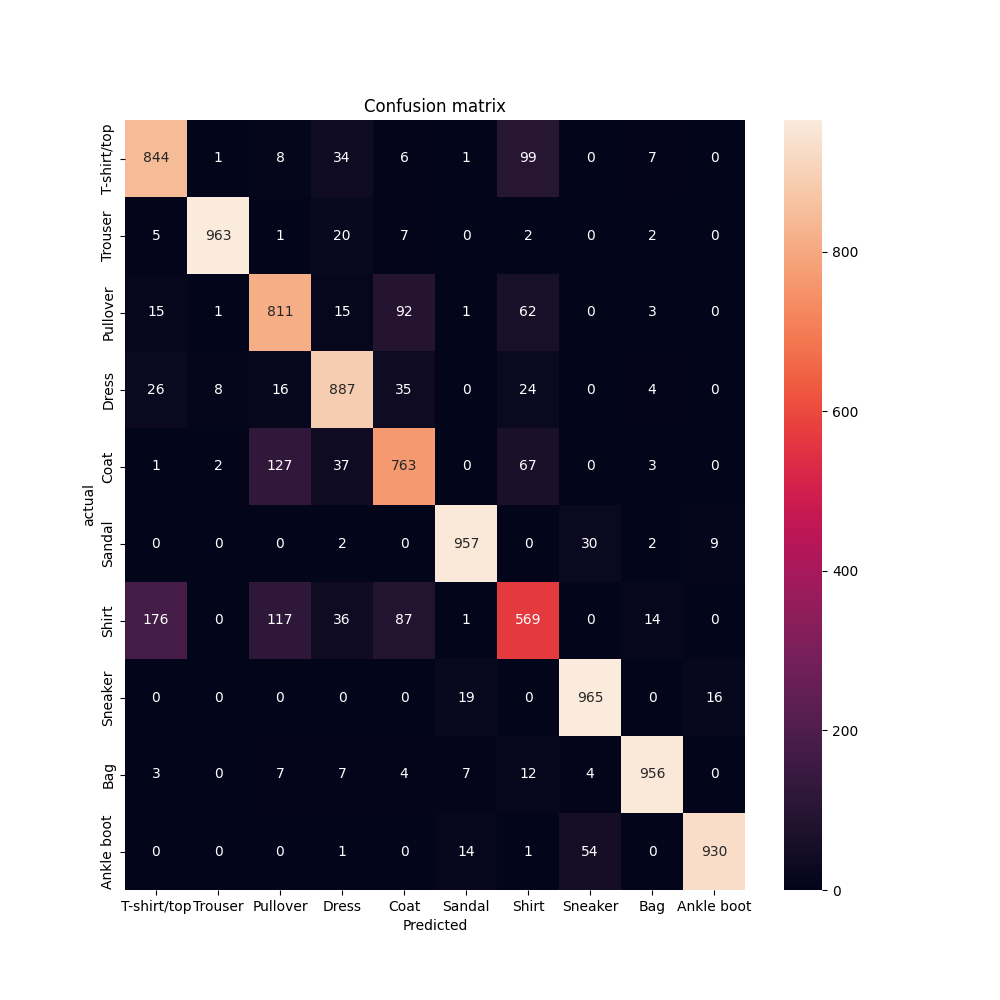
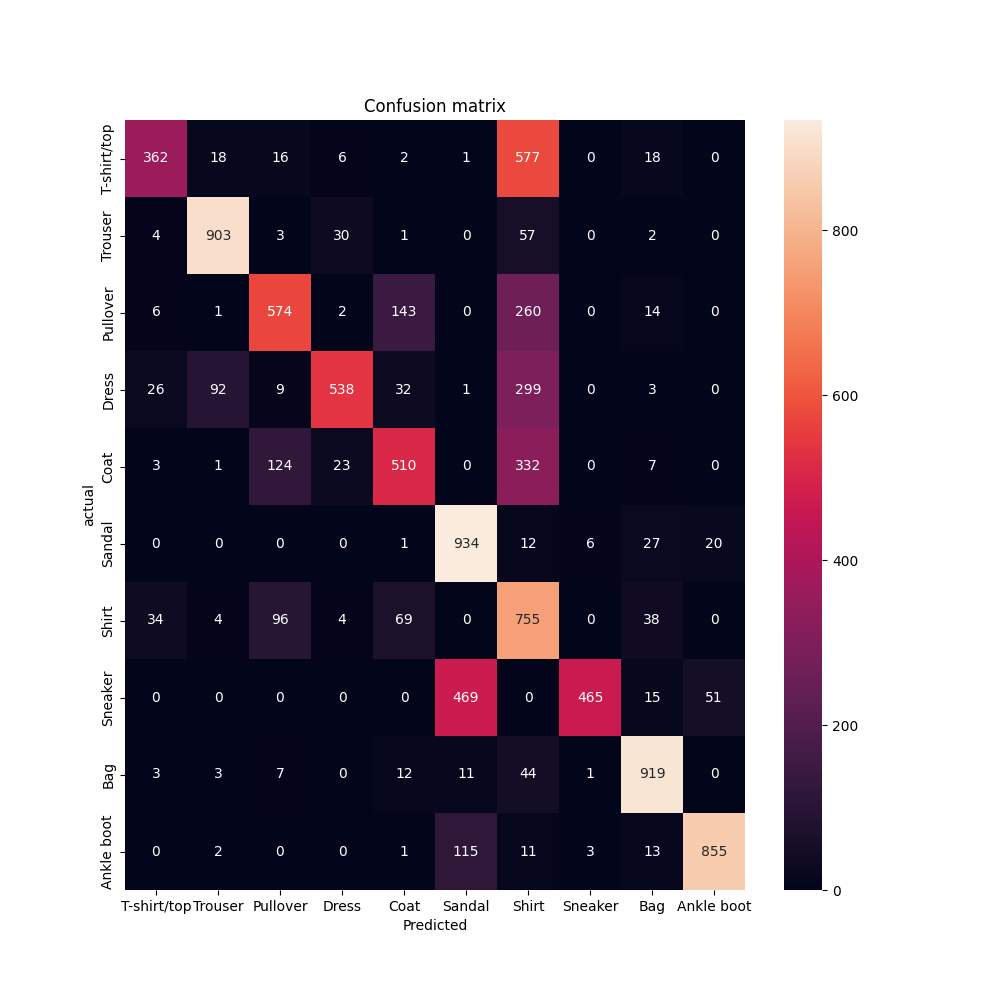
full_trim_attack

diff --git a/main.py b/main.py
@@ -14,6 +14,21 @@ from sklearn.metrics import accuracy_score, roc_auc_score, recall_score, classif
 from scipy.stats import hmean
 from client import Client  
 import os
+import random
+
+
+def full_trim_attack(global_weights, f):
+    # f: 손상된 클라이언트의 수
+    # 가중치 평균과 표준편차 계산
+    mean_weights = {key: torch.mean(torch.stack([weights[key] for weights in global_weights]), dim=0) for key in global_weights[0]}
+    std_weights = {key: torch.std(torch.stack([weights[key] for weights in global_weights]), dim=0, unbiased=False) for key in global_weights[0]}
+
+    # 공격 적용
+    for key in mean_weights.keys():
+        mean_weights[key] = mean_weights[key] - 3.5 * std_weights[key] * torch.sign(mean_weights[key])
+
+    return mean_weights
+
 
 # Hyperparameters
 num_clients = 5
@@ -21,7 +36,7 @@ batch_size = 32
 learning_rate = 1e-3
 num_rounds = 10  
 local_epochs = 5
-malicious_client_ids = {0,1,2,3,4}  
+malicious_client_ids = {}  
 poison_status = "gausian_noise_5noise"  
 results_folder = "./results"  
 
@@ -34,7 +49,7 @@ metrics_filename = f'model_performance_metrics_round{num_rounds}_epoch{local_epo
 conf_matrix_filename = f'confusion_matrix_round{num_rounds}_{local_epochs}_{poison_status}.png'
 
 
-device = torch.device("cuda:3" if torch.cuda.is_available() else "cpu")
+device = torch.device("cuda:1" if torch.cuda.is_available() else "cpu")
 
 
 #transform
@@ -82,7 +97,7 @@ subset_size = len(train_dataset) // num_subsets
 subsets = [Subset(train_dataset, np.arange(i*subset_size, (i+1)*subset_size)) for i in range(num_subsets)]
 
 # 클라이언트 서브셋 선택
-selected_subsets = np.random.choice(subsets, num_clients, replace=False)
+selected_subsets = random.sample(subsets, num_clients)
 
 
 # 글로벌 모델 선언
@@ -119,9 +134,7 @@ for round in range(num_rounds):
         global_weights.append(client_state_dict)
     
     # 글로벌 모델 가중치 업데이트
-    new_global_state_dict = {key: torch.mean(
-        torch.stack([client_weights[key] for client_weights in global_weights]), dim=0)
-        for key in global_weights[0]}
+    new_global_state_dict = full_trim_attack(global_weights, f=2)
     
     global_model.load_state_dict(new_global_state_dict)
 
